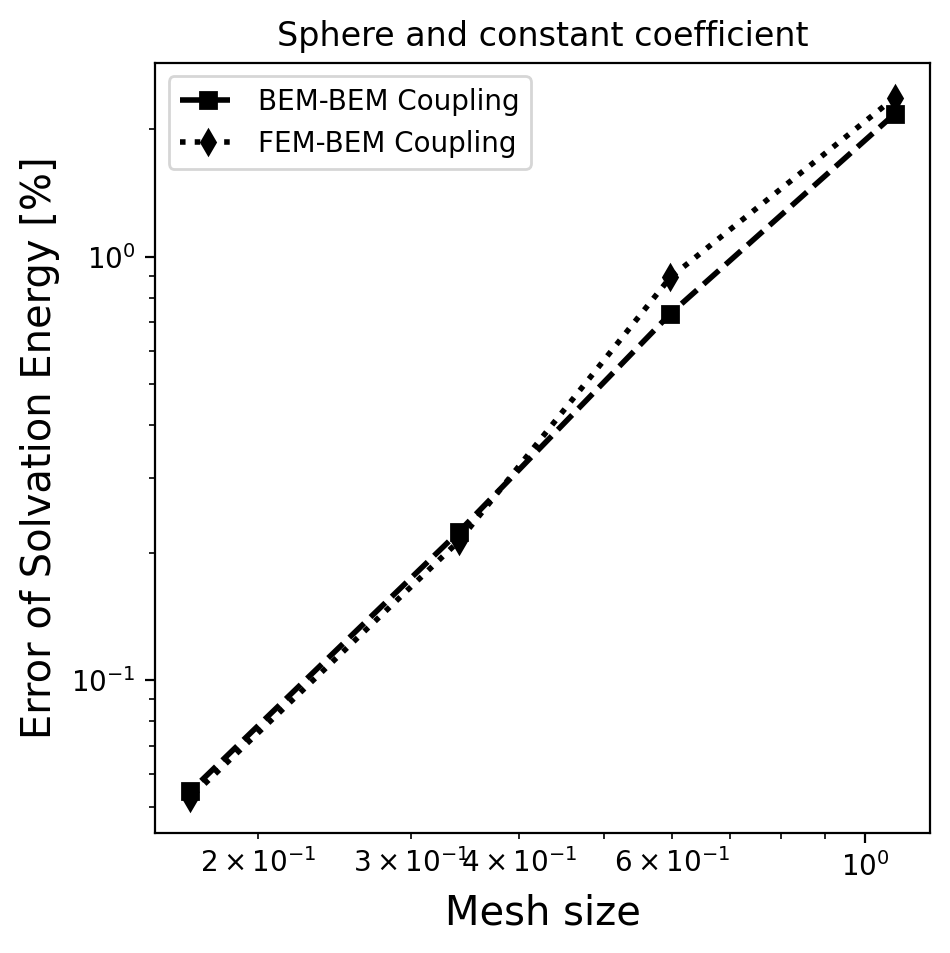
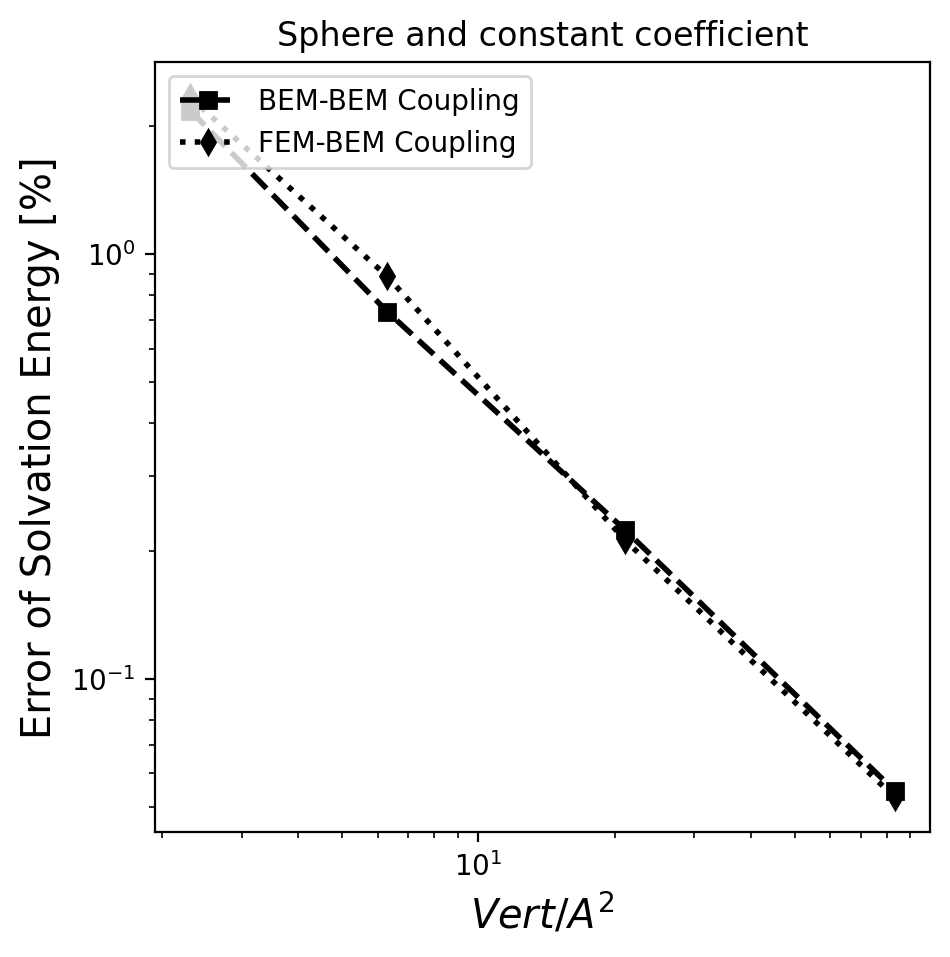
New version with results of the large tests included

diff --git a/results.tex b/results.tex
@@ -26,10 +26,11 @@ As in these cases there is an analytical solution for $\phi_c$ in Eq. \eqref{eq:
 
 The Kirkwood sphere \cite{Kirkwood1934} is a standard benchmark test for the Poisson-Boltzmann equation in molecular electrostatics. 
 In this case, we considered a spherical cavity of radius $R=2$ \AA, with three charges ($q_1$=1, $q_2$=1, and $q_3$=0.75) placed at $\mathbf{x}_1=(1,0,0)$, $\mathbf{x}_2=(0.7,0.7,0)$, and $\mathbf{x}_3=(-0.5,-0.5,0)$.
-Figure \ref{fig:error_sphere} shows the error convergence of the FEM-BEM approaches, and a reference BEM implementation, to the analytical solution ($\Delta G_{solv}= -164.3375$ kcal/mol). 
-In these runs, the FEM mesh was generated using GMSH~\cite{geuzaine2009gmsh}. 
+Figure \ref{fig:error_sphere} shows the error convergence of the FEM-BEM approaches, and a reference BEM implementation, to the analytical solution ($\Delta G_{solv}= -336.0396$ kcal/mol). 
+In these runs, the FEM mesh was generated using GMSH~\cite{geuzaine2009gmsh} 
 %Bempp (check?) from a surface discretization 
-with 1, 2, 4, and 8 vertices per \AA$^2$ on the SES, the surface mesh of this volume one was also used for the BEM runs. 
+with %1, 2, 4, and 8 
+2, 6, 21 and 83 vertices per \AA$^2$ on the SES, the surface mesh of this volume one was also used for the BEM runs. 
 %For the hybrid FEM-BEM coupling approach, we used $\tau$=5.
 The error in Figure \ref{fig:error_sphere} decays linearly with the surface area, which agrees with the expected convergence for P1 elements, indicating a correct implementation of the numerical scheme. 
 %We can see that the purely BEM implementation outperforms (or not?) FEM-BEM coupling in terms of accuracy for equivalent meshes, and also that the hybrid approach does not (or does?) influence accuracy. 
@@ -43,19 +44,19 @@ The error in Figure \ref{fig:error_sphere} decays linearly with the surface area
 
 \subsection*{\sffamily \large Performance with arginine}
 
-As a more realistic test, we assessed the performance of the FEM-BEM coupling technique against a purely BEM implementation for arginine (the structure of arginine taken from the protein data bank \cite{bank} {\color{red} We are using different ARG!}). 
+As a more realistic test, we assessed the performance of the FEM-BEM coupling technique against a purely BEM implementation for arginine (the structure of arginine taken from the protein data bank \cite{bank}). 
 We generated surface meshes containing W, X, Y, and Z vertices per \AA$^2$ with Nanoshaper.~\cite{decherchi2013general}
 These meshes were inputs to our purely BEM solver, and to create the FEM mesh with pyGAMer,~\cite{lee2020open} which invoked \texttt{tetgen} [citation] with the string \texttt{abcd}.
 
 The solvation energy computed with the two schemes is presented by Figure \ref{fig:arg_constant_energy}, which, as expected, converges to a similar answer as the mesh is refined.
-Then, Figure \ref{fig:arg_constant_time_iter} compares the iteration count and time-to-solution. The left plot shows that using only BEM outperforms the coupled FEM-BEM approach in terms of iterations count. However, if we look at the total time that solvers take to obtain the solution, we can see the advantage of using the FEM-BEM coupling. The higher computational cost is caused by the need of using a hypersingular operator in the BEM formulation.
+Then, Figure \ref{fig:arg2_constant_time_iter} compares the iteration count and time-to-solution. The left plot shows that using only BEM outperforms the coupled FEM-BEM approach in terms of iterations count. However, if we look at the total time that solvers take to obtain the solution, we can see the advantage of using the FEM-BEM coupling. The higher computational cost is caused by the need of using a hypersingular operator in the BEM formulation.
 
 
 \begin{figure}
 \centering
    \includegraphics[width=0.47\linewidth]{DolfinX_Arginine2_const_coeff_error.png}
-   \includegraphics[width=0.47\linewidth]{DolfinX_Arginine_const_coeff_error_11.png}
-\caption{Solvation energy for arginine with a constant permittivity. (left - Arginine2 and right - Arginine)
+%   \includegraphics[width=0.47\linewidth]{DolfinX_Arginine_const_coeff_error_11.png}
+\caption{Solvation energy for arginine with a constant permittivity. %(left - Arginine2 and right - Arginine)
 %maybe we could also add a "error" wrt extrapolation, or a plot with energy for each mesh?
 }
 \label{fig:arg_constant_energy}
@@ -71,29 +72,29 @@ Then, Figure \ref{fig:arg_constant_time_iter} compares the iteration count and t
 %%  \includegraphics[width=0.45\linewidth]{DolfinX_Arginine_const_coeff_time_11.png}
 %%  \includegraphics[width=0.45\linewidth]{DolfinX_Arginine_const_coeff_setup_time_11.png}
 %  \includegraphics[width=0.45\linewidth]{DolfinX_Arginine_const_coeff_total_time_11.png}
-  \caption{Iteration count (left) and time-to-solution (right) for Arginine2 with a constant permittivity. %(left: Online time taken to solve systems, right: Offline time taken to set up systems). 
+  \caption{Iteration count (left) and time-to-solution (right) for Arginine with a constant permittivity. %(left: Online time taken to solve systems, right: Offline time taken to set up systems). 
 %NOTE: x axis differ between top and bottom. Also, should we include preconditioned vs non preconditioned? We could easily precondition BEM-BEM too.  %(1) fix title, (2) can we put them in a single plot, (3) 
 %maybe we could also add a "error" wrt extrapolation, or a plot with energy for each mesh?
 }
 \label{fig:arg2_constant_time_iter}
 \end{figure}
 
-\begin{figure}
-\centering
-%   \includegraphics[width=0.45\linewidth]{DolfinX_Arginine2_const_coeff_iter.png}
-%%  \includegraphics[width=0.45\linewidth]{DolfinX_Arginine2_const_coeff_time.png}
-%%  \includegraphics[width=0.45\linewidth]{DolfinX_Arginine2_const_coeff_setup_time.png}
-%  \includegraphics[width=0.45\linewidth]{DolfinX_Arginine2_const_coeff_total_time.png}
-   \includegraphics[width=0.45\linewidth]{DolfinX_Arginine_const_coeff_iter_11.png}
-%  \includegraphics[width=0.45\linewidth]{DolfinX_Arginine_const_coeff_time_11.png}
-%  \includegraphics[width=0.45\linewidth]{DolfinX_Arginine_const_coeff_setup_time_11.png}
-  \includegraphics[width=0.45\linewidth]{DolfinX_Arginine_const_coeff_total_time_11.png}
-  \caption{Iteration count (left) and time-to-solution (right) for Arginine with a constant permittivity. %(left: Online time taken to solve systems, right: Offline time taken to set up systems). 
-%NOTE: x axis differ between top and bottom. Also, should we include preconditioned vs non preconditioned? We could easily precondition BEM-BEM too.  %(1) fix title, (2) can we put them in a single plot, (3) 
-%maybe we could also add a "error" wrt extrapolation, or a plot with energy for each mesh?
-}
-\label{fig:arg_constant_time_iter}
-\end{figure}
+%\begin{figure}
+%\centering
+%%   \includegraphics[width=0.45\linewidth]{DolfinX_Arginine2_const_coeff_iter.png}
+%%%  \includegraphics[width=0.45\linewidth]{DolfinX_Arginine2_const_coeff_time.png}
+%%%  \includegraphics[width=0.45\linewidth]{DolfinX_Arginine2_const_coeff_setup_time.png}
+%%  \includegraphics[width=0.45\linewidth]{DolfinX_Arginine2_const_coeff_total_time.png}
+%   \includegraphics[width=0.45\linewidth]{DolfinX_Arginine_const_coeff_iter_11.png}
+%%  \includegraphics[width=0.45\linewidth]{DolfinX_Arginine_const_coeff_time_11.png}
+%%  \includegraphics[width=0.45\linewidth]{DolfinX_Arginine_const_coeff_setup_time_11.png}
+%  \includegraphics[width=0.45\linewidth]{DolfinX_Arginine_const_coeff_total_time_11.png}
+%  \caption{Iteration count (left) and time-to-solution (right) for Arginine with a constant permittivity. %(left: Online time taken to solve systems, right: Offline time taken to set up systems). 
+%%NOTE: x axis differ between top and bottom. Also, should we include preconditioned vs non preconditioned? We could easily precondition BEM-BEM too.  %(1) fix title, (2) can we put them in a single plot, (3) 
+%%maybe we could also add a "error" wrt extrapolation, or a plot with energy for each mesh?
+%}
+%\label{fig:arg_constant_time_iter}
+%\end{figure}
 
 
 %\begin{figure}
@@ -137,9 +138,9 @@ We chose APBS because it provides an easy interface to control dielectric maps, 
 
 \subsection*{\sffamily \large Convergence and performance for arginine}
 
-Table \ref{table:arg_variable} shows a comparison of solvation energy computed with APBS and our FEM-BEM coupling approach. We can see that they are both converging to equivalent values, where the finest meshes agree up to 1.5\% (0.5 kcal/mol).
+Table \ref{table:arg_variable} shows a comparison of solvation energy computed with APBS and our FEM-BEM coupling approach. We can see that they are both converging to equivalent values, where the finest meshes agree up to 1.5\% {\color{red} (shouldn't be 0.5\%?)} (0.5 kcal/mol).
 
-Figure \ref{fig:arg_variable} contains the performance results of this test case, where we distinguish the iteration count from the calculation in dissolved and vacuum states. 
+Figure \ref{fig:arg2_variable} contains the performance results of this test case, where we distinguish the iteration count from the calculation in dissolved and vacuum states. 
 
 \begin{table}
 \centering
@@ -171,8 +172,20 @@ coupling    & 8.57  & -109.658 \\
 %\hline
 \end{tabular}
 \caption{Solvation energy of arginine with a Gaussian-like permittivity, computed using the FEM-BEM approach and APBS. The mesh density for FEM-BEM corresponds to the vertex density of the surface mesh used to generate the volumetric mesh. Add performance result?}
-\label{table:arg_variable}
+\label{table:arg2_variable}
 \end{table}
+
+%\begin{figure}
+%\centering
+%% \includegraphics[width=0.45\linewidth]{Arginine_varying_coeff_iter.png}
+%% \includegraphics[width=0.45\linewidth]{Arginine_varying_coeff_time.png}
+%\includegraphics[width=0.45\linewidth]{Arginine_varying_coeff_time_11.png}
+%\includegraphics[width=0.45\linewidth]{Arginine_varying_coeff_setup_time_11.png}
+%\includegraphics[width=0.45\linewidth]{Arginine_varying_coeff_iter_11.png}
+%\caption{Iteration count and time-to-solution to compute the solvation energy of arginine with a variable permittivity (left: Online time taken to solve systems, right: Offline time taken to set up systems), using FEM-BEM coupling. %Can we make this only two plots?
+%}
+%\label{fig:arg_variable}
+%\end{figure}
 
 \begin{figure}
 \centering
@@ -183,10 +196,28 @@ coupling    & 8.57  & -109.658 \\
 \includegraphics[width=0.45\linewidth]{Arginine_varying_coeff_iter_11.png}
 \caption{Iteration count and time-to-solution to compute the solvation energy of arginine with a variable permittivity (left: Online time taken to solve systems, right: Offline time taken to set up systems), using FEM-BEM coupling. %Can we make this only two plots?
 }
-\label{fig:arg_variable}
+\label{fig:arg2_variable}
 \end{figure}
 
 
 \subsection*{\sffamily \large Performance analysis for larger structures}
 
-So far, we have only tested the FEM-BEM coupled approach with small structures. Here, we study its behavior with larger structures to evaluate its applicability in more realistic settings.
+So far, we have only tested the FEM-BEM coupled approach with small structures. Here, we study its behaviour with larger structures to evaluate its applicability in more realistic settings.
+
+
+\begin{table}
+\centering
+\begin{tabular}{c|c|c|c|c|c|c}
+Molecule & Mesh size  & $\Delta G_{solv}$ & Iterations & Setup Time & Solving Time & Total Time \\
+& vert/\AA$^2$ &  kcal/mol & & sec & sec & sec \\
+\hline
+ 1pgb &  & -300.888 & 826 & 82 & 547 & 629  \\
+ 1lyz &  & -599.642 & 1 285 & 330 & 1 640  & 1 970  \\
+ 1lyz gs3 & & -600.637 & 2 949  & 1 690 & 10 900 & 12 590   \\
+ 1uxu &  & -1 984.468 & 4 167 & 8 240 & 16 300 & 24 540  \\
+ 1igt &  &  -3 294.230 & 8 361 & 41 200 & 64 200 &  105 400   \\
+ \hline
+\end{tabular}
+\caption{Large tests' results}
+\label{table:large_variable}
+\end{table}
